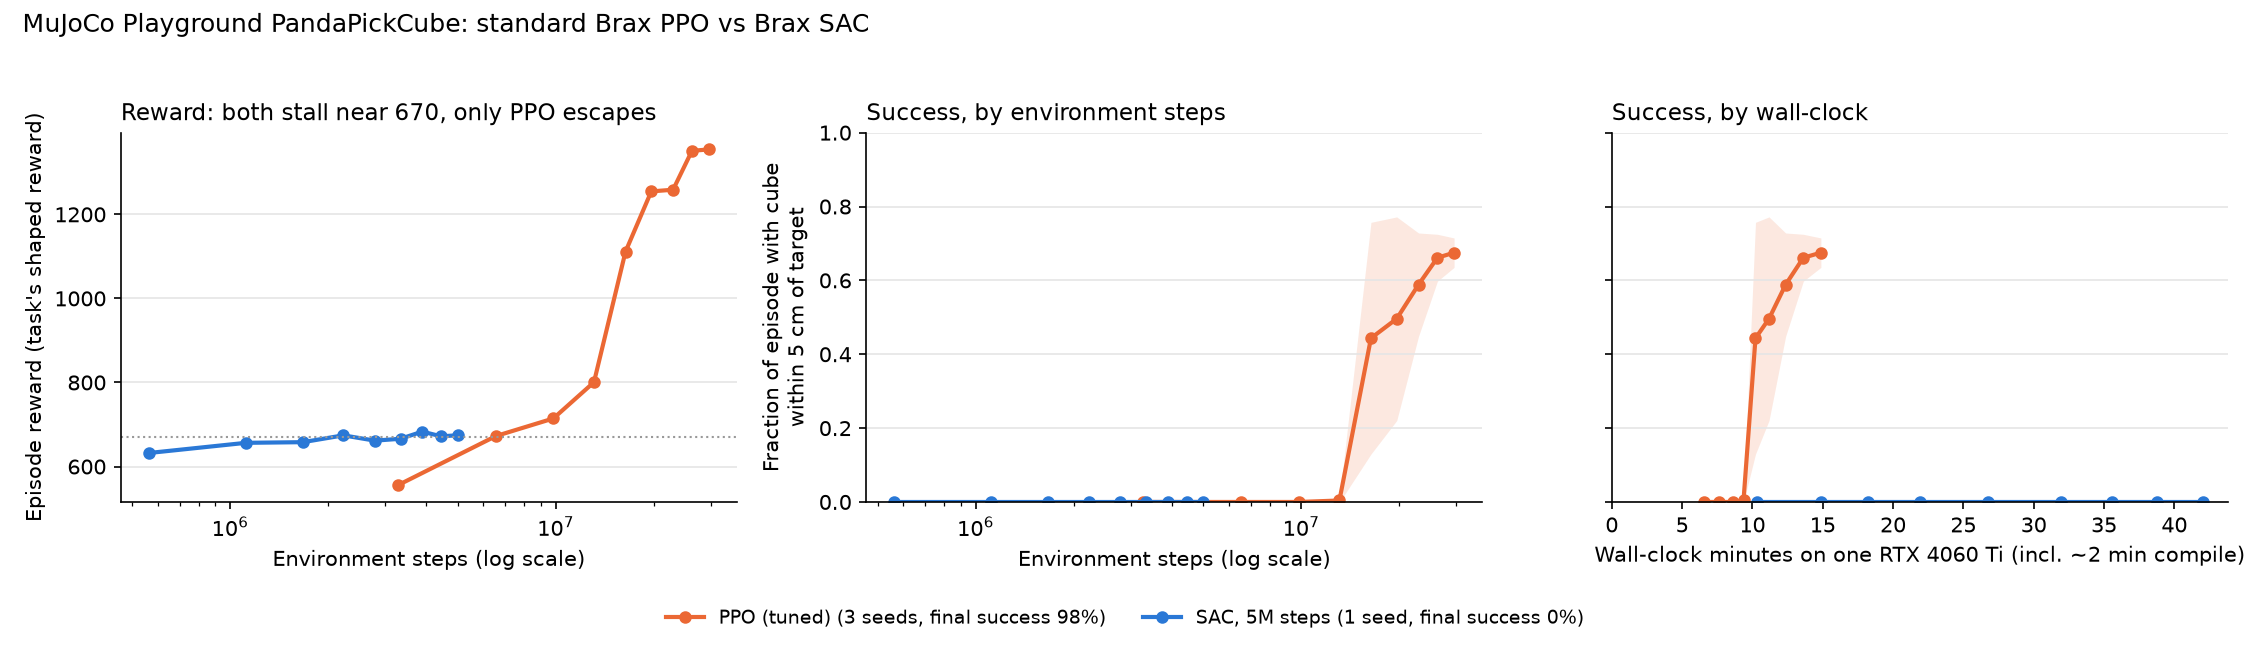
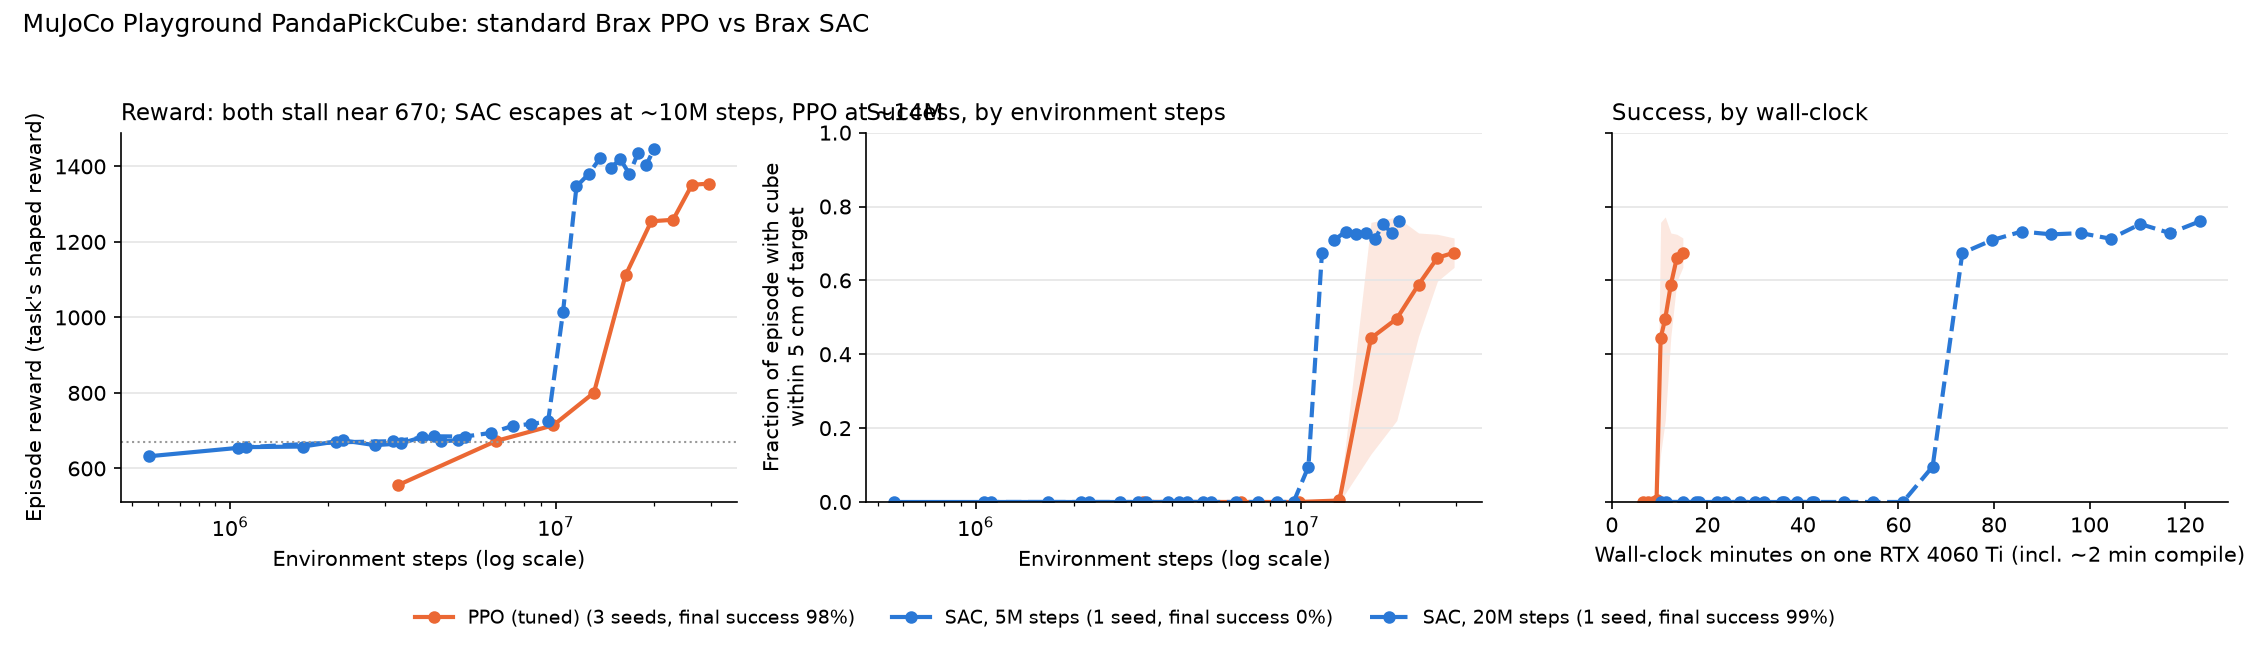
PandaPickCube: 20M-step SAC solves it too (99%) - only ~1.3x more sample-efficient, ~8x slower
- SAC escapes the reward plateau at ~10-11.6M steps (PPO: 13-16M), final
  success 0.989 vs PPO 0.98; PPO ~15 min vs SAC 123 min wall-clock
- Correct the 'result reverses' wording in README, her/README and
  playground/README; figure and budget (~37 h, 188 runs) updated

diff --git a/playground/plot_stage_a.py b/playground/plot_stage_a.py
@@ -33,7 +33,7 @@ for label, pat, col, ls in SERIES:
 ax_r.set_xscale("log")
 ax_r.set_xlabel("Environment steps (log scale)")
 ax_r.set_ylabel("Episode reward (task's shaped reward)")
-ax_r.set_title("Reward: both stall near 670, only PPO escapes", loc="left", fontsize=11)
+ax_r.set_title("Reward: both stall near 670; SAC escapes at ~10M steps, PPO at ~14M", loc="left", fontsize=11)
 ax_r.axhline(670, color="#999", lw=1, ls=":")
 ax_r.grid(axis="y", color="#e5e5e5")
 for sp in ("top", "right"):

diff --git a/playground/README.md b/playground/README.md
@@ -2,7 +2,7 @@
 
 On the [2D maze](../README.md#off-policy-learning-sac-and-hindsight-experience-replay), plain SAC matched the best PPO + SGS result with about 600× fewer environment steps ([details](../her/README.md)). Before trying that on the SGS paper's own robot tasks, this checks it on a **standard GPU benchmark** with **standard implementations**: Brax PPO vs Brax SAC on MuJoCo Playground's `PandaPickCube`.
 
-**Short answer: no.** On PandaPickCube, PPO reaches 98% success in about 15 minutes; SAC is still at 0% after 42 minutes (5M steps).
+**Short answer: no, not the 600× part.** Both methods solve PandaPickCube (about 98–99% success). SAC needs slightly fewer environment steps, about 1.3× fewer to escape the hardest part, but PPO gets there about **8× faster in wall-clock** (about 15 minutes against about 2 hours).
 
 ## The task
 
@@ -38,21 +38,24 @@ uv venv .venv --python 3.12 && uv pip install --python .venv/bin/python "jax[cud
 | PandaPickCube | Seeds | Env steps | Wall-clock | Success at episode end |
 |---|---|---|---|---|
 | **PPO (tuned)** | 3 | ~30M | 14–17 min | **98%** (0.981, 0.964, 0.992) |
-| SAC | 1 | 5M | 42 min | **0%** |
+| SAC, short run | 1 | 5M | 42 min | 0% |
+| **SAC, long run** | 1 | 20M | 123 min | **99%** (0.989) |
 
 ![PPO vs SAC on PandaPickCube](stage_a.png)
 
 - **Both methods hit the same reward plateau, about 670.** In this reward that roughly means reaching the cube without lifting it to the target.
-- **SAC reaches the plateau about 10× sooner** (about 0.6M steps against about 6M for PPO), then stays there for the next 4.4M steps.
-- **PPO escapes it at about 13–16M steps** and jumps to near-perfect success on all 3 seeds.
-- **At equal environment steps (5M), both are at 0%**, so per sample the question is still open beyond 5M. **Per wall-clock, PPO wins clearly.**
+- **SAC reaches the plateau about 10× sooner** (about 0.6M steps against about 6M for PPO), then sits on it for about 9M steps.
+- **Both escape it, SAC slightly first in environment steps:** SAC at about 10–11.6M steps, PPO at about 13–16M steps on all 3 seeds. After escaping, SAC ends slightly higher (reward 1445 vs about 1350; 114 vs about 101 of 150 steps within 5 cm).
+- **Final success is the same:** 99% for SAC, 98% for PPO.
+- **Per wall-clock, PPO wins by about 8×.** On this GPU, PPO collects about 150K environment steps per second; SAC, with 8 gradient updates per step, manages about 2.7K. So PPO escapes the plateau after about 10 minutes, SAC after about 70.
+- **The earlier "SAC is at 0%" (5M-step run) was simply too short.** It stopped about 5M steps before SAC's escape.
 
-**Why the maze result didn't transfer (likely):** the maze is short-horizon, its pool of easy goals feeds a steady stream of successes, and its "physics" is a few tensor operations, so environment steps are almost free and gradient updates dominate the cost. Here the hard part is one exploration step, lifting the cube, and PPO's 2048 parallel environments with noisy on-policy exploration push through it, while SAC with 128 environments doesn't.
+**Why the maze's 600× didn't transfer (likely):** the maze is short-horizon, and its pool of easy goals feeds a steady stream of successes, so SAC's sample reuse pays off immediately. Here the hard part is one exploration step, lifting the cube. Both methods need about 10M+ steps of trying before it clicks, and sample reuse doesn't shorten that much. Once environment steps are cheap (GPU physics), the method that turns GPU time into environment steps fastest wins on wall-clock, and that's PPO.
 
 ## Caveats
 
 - SAC has one seed, and its settings are tuned for locomotion, not manipulation. A manipulation-tuned SAC, or a modern parallel off-policy method such as FastTD3/FastSAC, might do much better.
-- SAC might escape the plateau later. A **20M-step SAC run** is in progress (`runs_long/`) to check; it will be added to the figure as a dashed line.
+- SAC has one seed for each run length. Its escape point (about 10–11.6M steps) may vary across seeds as much as PPO's does (13–16M).
 - Runs shared the GPU with each other (2 at a time), so wall-clock times are somewhat inflated for both methods. The first ~2 minutes of every run are JIT compilation.
 - MJX backend instead of Warp, as noted above.
 

diff --git a/README.md b/README.md
@@ -292,16 +292,17 @@ A side experiment in [her/](her/README.md) runs **SAC**, an off-policy learner, 
 
 So for this problem on one small GPU, switching to an off-policy learner was worth more than any sampling strategy. Details in [her/README.md](her/README.md).
 
-### Does "SAC wins" transfer? Not to a standard manipulation benchmark
+### Does "SAC wins" transfer? Not the 600× part
 
 To check whether the SAC result is about SAC or about the maze, [playground/](playground/README.md) runs **standard Brax PPO vs standard Brax SAC** on MuJoCo Playground's **PandaPickCube** (a Franka arm lifting a cube to a random target), each with Playground's own tuned settings.
 
 | PandaPickCube | Env steps | Wall-clock | Success |
 |---|---|---|---|
 | **PPO (3 seeds)** | ~30M | 14–17 min | **98%** |
-| SAC (1 seed) | 5M | 42 min | 0% |
+| SAC (1 seed), short run | 5M | 42 min | 0% |
+| **SAC (1 seed), long run** | 20M | 123 min | **99%** |
 
-**The result reverses.** Both methods stall on the same reward plateau, reaching the cube without lifting it. SAC gets there about 10× sooner but stays stuck, while PPO's many parallel environments push through at about 13–16M steps. So the maze's huge SAC advantage most likely comes from the maze being short-horizon with plenty of easy successes, not from SAC itself. This is one task with one SAC seed, and a 20M-step SAC run is in progress; details and caveats are in [playground/README.md](playground/README.md).
+**Both solve it.** Both stall on the same reward plateau, which most likely means reaching the cube without lifting it. SAC escapes slightly earlier in environment steps (about 10–11.6M vs 13–16M), so it is only about 1.3× more sample-efficient here, not 600×. PPO is about **8× faster in wall-clock**. So the maze's huge SAC advantage most likely comes from the maze being short-horizon with plenty of easy successes. Details and caveats are in [playground/README.md](playground/README.md).
 
 ### Not tested
 
@@ -363,7 +364,7 @@ uv pip install --python .venv/bin/python numpy matplotlib
 
 ## GPU budget
 
-Everything here used **about 35 hours of one RTX 4060 Ti**:
+Everything here used **about 37 hours of one RTX 4060 Ti**:
 
 | Phase | Runs | GPU wall-clock |
 |---|---|---|
@@ -378,8 +379,8 @@ Everything here used **about 35 hours of one RTX 4060 Ti**:
 | Prior knowledge (maze demos, Acrobot reverse resets) | 18 | 1.2 h (3 runs at a time) |
 | Sensitivity, demo curve, noisy demos, Acrobot diagnosis, layout seeds | 56 | 3.7 h (4 runs at a time) |
 | SAC / HER smoke tests and experiment ([her/](her/README.md)) | 18 | ~2.5 h (2–4 runs at a time) |
-| PandaPickCube: Brax PPO × 3, SAC 1M and 5M, smoke tests ([playground/](playground/README.md)) | 7 | ~1.2 h (2 runs at a time) |
-| **Total** | **187** | **~35 h** |
+| PandaPickCube: Brax PPO × 3, SAC 1M, 5M and 20M, smoke tests ([playground/](playground/README.md)) | 8 | ~3.2 h |
+| **Total** | **188** | **~37 h** |
 
 The 128K-environment runs (~12 h) were cancelled to save GPU time.
 

diff --git a/her/README.md b/her/README.md
@@ -1,6 +1,6 @@
 # SAC + Hindsight Experience Replay on the SGS maze
 
-> **Update:** the headline result here, that plain SAC beats PPO + SGS with about 600× fewer steps, **did not transfer** to a standard benchmark. On MuJoCo Playground's PandaPickCube, standard Brax PPO reached 98% success in about 15 minutes, while Brax SAC was still at 0% after 5M steps (42 minutes). See [../playground/README.md](../playground/README.md).
+> **Update:** the headline result here, that plain SAC beats PPO + SGS with about 600× fewer steps, **did not transfer** to a standard benchmark. On MuJoCo Playground's PandaPickCube, both standard Brax PPO and Brax SAC reach about 98–99% success. SAC needs only about 1.3× fewer environment steps, and PPO is about 8× faster in wall-clock (15 minutes vs 2 hours). See [../playground/README.md](../playground/README.md).
 
 A side experiment to [the SGS reproduction](../README.md). It runs on the same maze, configuration pool, evaluation set and success rule, so its numbers compare directly with the PPO runs there.
 
